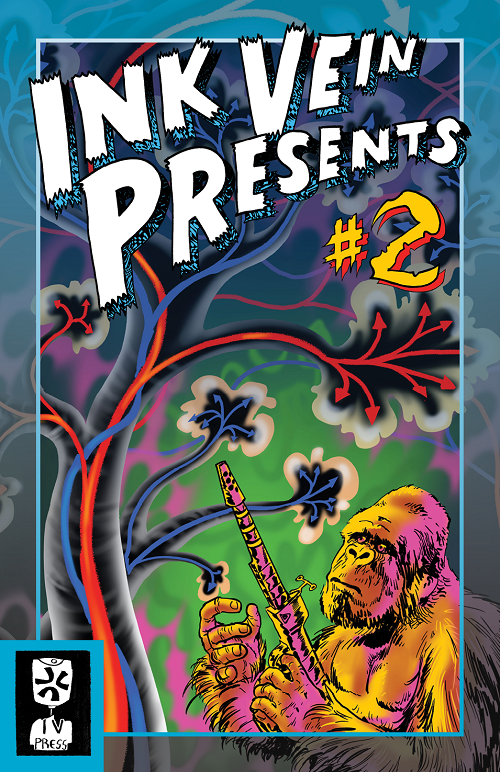
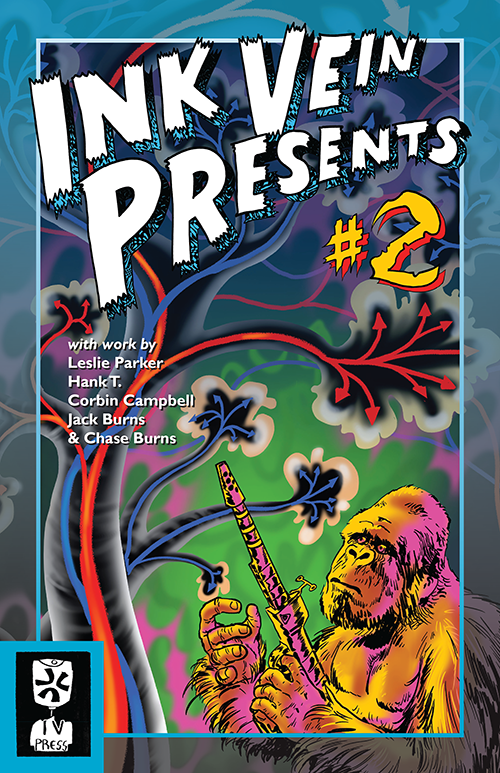
updating for ivp2 release

diff --git a/comics.html b/comics.html
@@ -27,12 +27,13 @@
 		<div class="contentemphasis">
 			<div class="comicsgrid">
 				<button type="button" class="comicsgridthumb" desc="
-					<span class='title'>INK VEIN PRESENTS #2</span><br><br>COMING SOON
-					<br><br><b>Featuring works from...</b><br><br>
-					Corbin Campbell<br>
-					Hank T.<br>
-					Chase Burns<br>
-					Jack Burns</p>"><img src="images/covers/ivp2.png"><p>INK VEIN PRESENTS #2</p></button>
+					<a href='https://inkvein.itch.io/iv-presents-2'><span class='title'>INK VEIN PRESENTS #2</span></a><br>is an all-new comics anthology magazine from IV Press, featuring short stories and comic strips from all over the world, in your hands, right now. Our second issue features two short action-adventure stories, as well as the first comic strips in our magazine.
+					<br><br><b>Featuring</b><br><br>
+					<b>Anchors</b><br>by Hank T.<br><br>
+					<b>Unit of Resistance</b><br>by Corbin Campbell and Hank T.<br><br>
+					<b>Mr. Random</b><br>by Jack Burns<br><br>
+					<b>Microbo RX</b><br>by Chase Burns<br><br>
+					Edited and presented by Hank T. and Jack Burns, with design by Chase Burns and a full-color art piece by Leslie Parker<br><br><a href='https://inkvein.itch.io/iv-presents-2'>Buy a digital copy here.</a></p>"><img src="images/covers/ivp2.png"><p>INK VEIN PRESENTS #2</p></button>
 				<button type="button" class="comicsgridthumb" desc="
 					<a href='https://inkvein.itch.io/iv-presents-1'><span class='title'>INK VEIN PRESENTS #1</span></a><br>is an all-new comics anthology magazine from IV Press, featuring short stories and comic previews from all over the world. Our inaugural issue features three short pulp action-adventure stories, two of which make up short snippets of upcoming series from IV Press.
 					<br><br><b>Featuring...</b><br><br>

diff --git a/index.html b/index.html
@@ -32,12 +32,14 @@
 			<div class="prevcontainer">
 				<img src="images/covers/ivp2.png">
 				<div class="prevtext">
-					<h2>INK VEIN PRESENTS #2<br><br>COMING SOON</h2><br>
+					<h2>INK VEIN PRESENTS #2<br><br>OUT NOW</h2><br>
 				<p class="list"><b>Featuring works from...</b><br><br>
-					Corbin Campbell<br>
 					Hank T.<br>
+					Corbin Campbell<br>
+					Jack Burns<br>
 					Chase Burns<br>
-					Jack Burns<br><br></p>
+					Leslie Parker<br><br>
+					<a href="https://inkvein.itch.io/iv-presents-2">Buy a digital copy here.</a><br></p>
 				</div>
 			</div>
 		</div>
